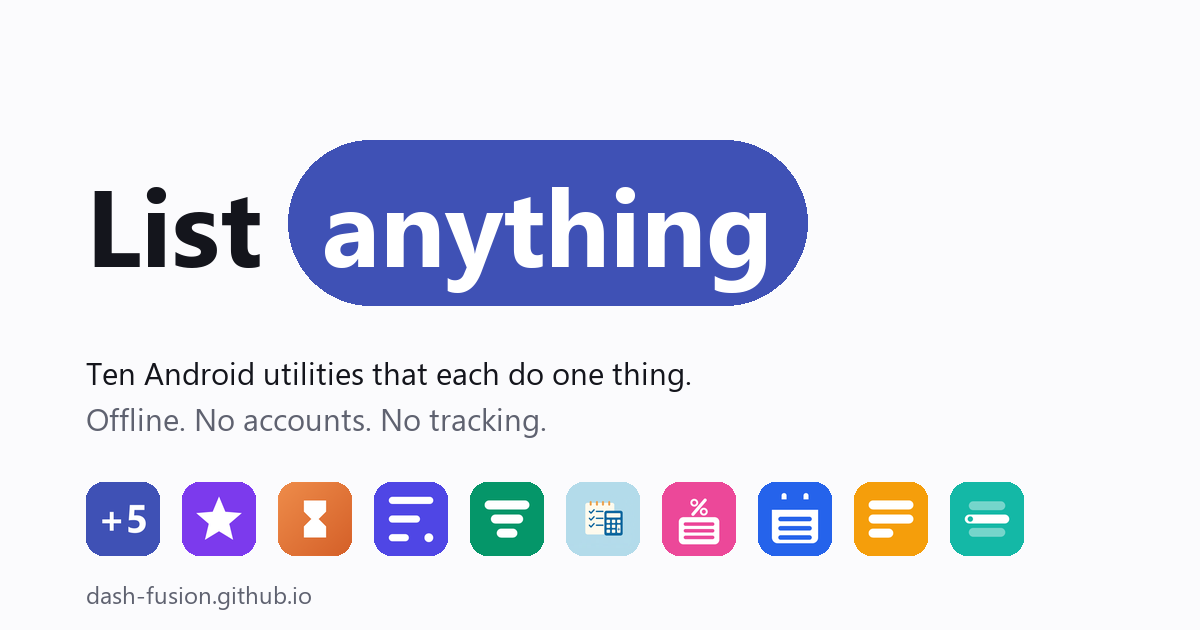
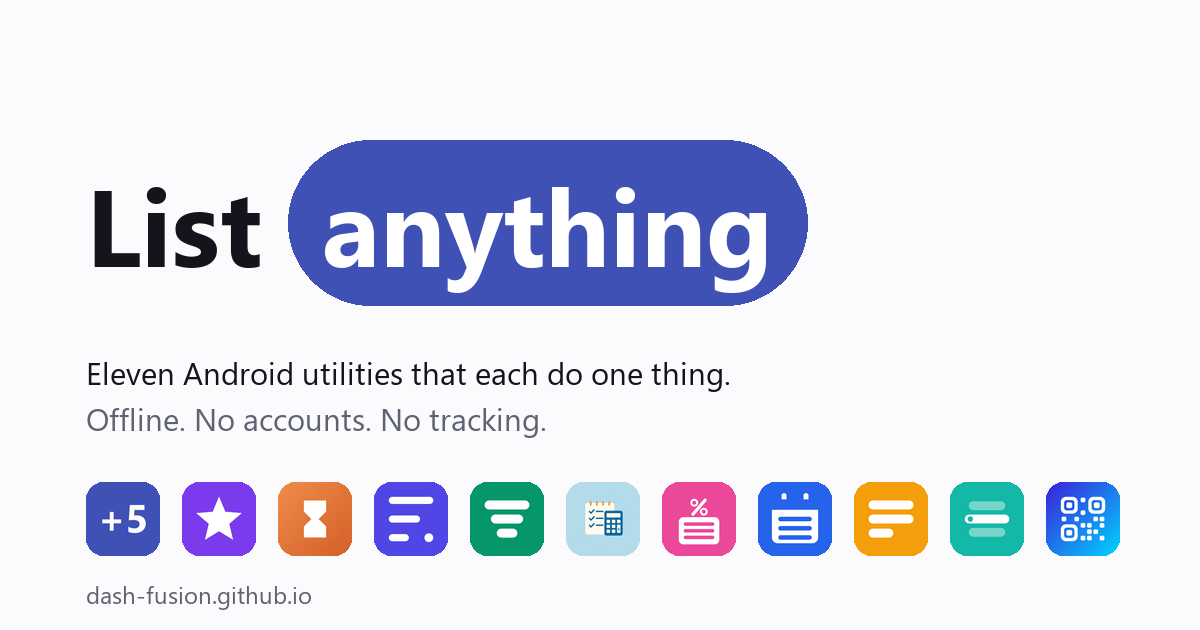
Add List QR to the landing page
New Create-and-share group with the List QR row (Play + privacy links),
eleventh icon, updated counts in copy and JSON-LD, and a regenerated
og.png.

Changed region(s): [[0.0617, 0.573, 0.6167, 0.6333], [0.8633, 0.754, 0.9558, 0.9048]]

diff --git a/index.html b/index.html
@@ -5,7 +5,7 @@
 <meta name="viewport" content="width=device-width, initial-scale=1">
 
 <title>Dash Fusion — offline-first Android utility apps</title>
-<meta name="description" content="Ten small Android utilities that each do one thing well — counters, timers, budgets, notes and more — plus Potion Sort, an offline color-sort puzzle with 999 levels. Everything works fully offline, with no account required.">
+<meta name="description" content="Eleven small Android utilities that each do one thing well — counters, timers, budgets, notes, QR codes and more — plus Potion Sort, an offline color-sort puzzle with 999 levels. Everything works fully offline, with no account required.">
 <link rel="canonical" href="https://dash-fusion.github.io/">
 <meta name="author" content="Dash Fusion">
 <meta name="robots" content="index, follow, max-image-preview:large">
@@ -16,14 +16,14 @@
 <meta property="og:site_name" content="Dash Fusion">
 <meta property="og:url" content="https://dash-fusion.github.io/">
 <meta property="og:title" content="Dash Fusion — offline-first Android utility apps">
-<meta property="og:description" content="Ten small Android utilities that each do one thing well, plus Potion Sort — an offline color-sort puzzle. No account required.">
+<meta property="og:description" content="Eleven small Android utilities that each do one thing well, plus Potion Sort — an offline color-sort puzzle. No account required.">
 <meta property="og:image" content="https://dash-fusion.github.io/og.png">
 <meta property="og:image:width" content="1200">
 <meta property="og:image:height" content="630">
-<meta property="og:image:alt" content="Dash Fusion — List anything. The ten app icons in a row.">
+<meta property="og:image:alt" content="Dash Fusion — List anything. The eleven app icons in a row.">
 <meta name="twitter:card" content="summary_large_image">
 <meta name="twitter:title" content="Dash Fusion — offline-first Android utility apps">
-<meta name="twitter:description" content="Ten small Android utilities that each do one thing well, plus Potion Sort — an offline color-sort puzzle. No account required.">
+<meta name="twitter:description" content="Eleven small Android utilities that each do one thing well, plus Potion Sort — an offline color-sort puzzle. No account required.">
 <meta name="twitter:image" content="https://dash-fusion.github.io/og.png">
 
 <link rel="icon" href="/favicon.svg" type="image/svg+xml">
@@ -320,7 +320,7 @@ a{color:inherit}
 <header class="masthead shell">
   <p class="eyebrow">Dash Fusion</p>
   <h1 class="wordmark">List <span class="slot" id="slot"><span class="slot-text" id="slotText">anything</span></span></h1>
-  <p class="lede">Ten Android utilities that each do <strong>one thing</strong> — and a potion-sorting puzzle for your breaks. Everything works offline, keeps your data on your phone, and never asks who you are.</p>
+  <p class="lede">Eleven Android utilities that each do <strong>one thing</strong> — and a potion-sorting puzzle for your breaks. Everything works offline, keeps your data on your phone, and never asks who you are.</p>
   <span class="slot-measure" id="slotMeasure" aria-hidden="true"></span>
 </header>
 
@@ -481,6 +481,25 @@ a{color:inherit}
   </section>
 
   <section class="group">
+    <h2 class="group-label">Create and share</h2>
+    <ul class="rows">
+      <li class="row" style="--hue:#3B1FD9;--deep:#3B1FD9">
+        <div class="row-in">
+          <img class="row-icon" src="icons/list-qr.png" width="46" height="46" alt="" decoding="async">
+          <div>
+            <h3 class="row-name">List QR</h3>
+            <p class="row-desc">Generate QR codes and barcodes for WiFi, links, contacts and payments — styled, offline, saved to a list.</p>
+          </div>
+          <div class="row-links">
+            <a class="play-link" href="https://play.google.com/store/apps/details?id=com.dashfusion.qrgenerator" aria-label="List QR on Google Play" title="Get it on Google Play"><svg class="play-glyph" aria-hidden="true" focusable="false"><use href="#gplay"></use></svg></a>
+            <a href="https://dash-fusion.github.io/privacy/list-qr" aria-label="List QR privacy policy">Privacy</a>
+          </div>
+        </div>
+      </li>
+    </ul>
+  </section>
+
+  <section class="group">
     <h2 class="group-label">Play</h2>
     <ul class="rows">
       <li class="row" style="--hue:#A855F7;--deep:#7E22CE">
@@ -546,7 +565,8 @@ a{color:inherit}
     {t:'Percent',    c:'#BE185D'},
     {t:'Date',       c:'#2563EB'},
     {t:'Notes',      c:'#A16207'},
-    {t:'Picker',     c:'#0F766E'}
+    {t:'Picker',     c:'#0F766E'},
+    {t:'QR',         c:'#3B1FD9'}
   ];
   var i = 0;
 
@@ -613,7 +633,7 @@ a{color:inherit}
     {
       "@type":"ItemList",
       "name":"Dash Fusion Android apps",
-      "numberOfItems":11,
+      "numberOfItems":12,
       "itemListElement":[
         {"@type":"ListItem","position":1,"item":{"@type":"MobileApplication","name":"List Counter","applicationCategory":"UtilitiesApplication","operatingSystem":"Android","url":"https://play.google.com/store/apps/details?id=com.dashfusion.listcounter","image":"https://dash-fusion.github.io/icons/list-counter.png","description":"Tally reps, stock, laps or attendees with as many counters as you need.","author":{"@id":"https://dash-fusion.github.io/#org"},"offers":{"@type":"Offer","price":"0","priceCurrency":"USD"}}},
         {"@type":"ListItem","position":2,"item":{"@type":"MobileApplication","name":"List Score","applicationCategory":"UtilitiesApplication","operatingSystem":"Android","url":"https://play.google.com/store/apps/details?id=com.dashfusion.listscore","image":"https://dash-fusion.github.io/icons/list-score.png","description":"Keep score for any game — cards, darts, board games, the classroom.","author":{"@id":"https://dash-fusion.github.io/#org"},"offers":{"@type":"Offer","price":"0","priceCurrency":"USD"}}},
@@ -625,7 +645,8 @@ a{color:inherit}
         {"@type":"ListItem","position":8,"item":{"@type":"MobileApplication","name":"List Date","applicationCategory":"UtilitiesApplication","operatingSystem":"Android","url":"https://play.google.com/store/apps/details?id=com.dashfusion.listdate","image":"https://dash-fusion.github.io/icons/list-date.png","description":"Days between dates, ages, working days and deadlines that keep themselves current.","author":{"@id":"https://dash-fusion.github.io/#org"},"offers":{"@type":"Offer","price":"0","priceCurrency":"USD"}}},
         {"@type":"ListItem","position":9,"item":{"@type":"MobileApplication","name":"List Notes","applicationCategory":"ProductivityApplication","operatingSystem":"Android","url":"https://play.google.com/store/apps/details?id=com.dashfusion.listnotes","image":"https://dash-fusion.github.io/icons/list-notes.png","description":"Notes with checklists, real tables, attachments and one-tap PDF export.","author":{"@id":"https://dash-fusion.github.io/#org"},"offers":{"@type":"Offer","price":"0","priceCurrency":"USD"}}},
         {"@type":"ListItem","position":10,"item":{"@type":"MobileApplication","name":"List Picker","applicationCategory":"UtilitiesApplication","operatingSystem":"Android","url":"https://play.google.com/store/apps/details?id=com.dashfusion.listpicker","image":"https://dash-fusion.github.io/icons/list-picker.png","description":"Spin a wheel, draw a name, split teams or flip a coin.","author":{"@id":"https://dash-fusion.github.io/#org"},"offers":{"@type":"Offer","price":"0","priceCurrency":"USD"}}},
-        {"@type":"ListItem","position":11,"item":{"@type":"MobileApplication","name":"Potion Sort","applicationCategory":"GameApplication","operatingSystem":"Android","url":"https://play.google.com/store/apps/details?id=com.dashfusion.potion_sort","image":"https://dash-fusion.github.io/icons/potion-sort.png","description":"Offline color-sort puzzle with 999 solver-verified levels and a daily challenge.","author":{"@id":"https://dash-fusion.github.io/#org"},"offers":{"@type":"Offer","price":"0","priceCurrency":"USD"}}}
+        {"@type":"ListItem","position":11,"item":{"@type":"MobileApplication","name":"List QR","applicationCategory":"UtilitiesApplication","operatingSystem":"Android","url":"https://play.google.com/store/apps/details?id=com.dashfusion.qrgenerator","image":"https://dash-fusion.github.io/icons/list-qr.png","description":"Offline QR code and barcode generator — styled codes that still scan, saved to a list on your device.","author":{"@id":"https://dash-fusion.github.io/#org"},"offers":{"@type":"Offer","price":"0","priceCurrency":"USD"}}},
+        {"@type":"ListItem","position":12,"item":{"@type":"MobileApplication","name":"Potion Sort","applicationCategory":"GameApplication","operatingSystem":"Android","url":"https://play.google.com/store/apps/details?id=com.dashfusion.potion_sort","image":"https://dash-fusion.github.io/icons/potion-sort.png","description":"Offline color-sort puzzle with 999 solver-verified levels and a daily challenge.","author":{"@id":"https://dash-fusion.github.io/#org"},"offers":{"@type":"Offer","price":"0","priceCurrency":"USD"}}}
       ]
     }
   ]

diff --git a/scripts/gen_social.py b/scripts/gen_social.py
@@ -24,7 +24,7 @@ REGULAR = "C:/Windows/Fonts/segoeui.ttf"
 # Shipping order, matching the page.
 APPS = [
     "counter", "score", "timer", "budget", "debt",
-    "calculator", "percent", "date", "notes", "picker",
+    "calculator", "percent", "date", "notes", "picker", "qr",
 ]
 
 
@@ -62,7 +62,7 @@ def build_og(path):
 
     d.text(
         (left, py1 + 46),
-        "Ten Android utilities that each do one thing.",
+        "Eleven Android utilities that each do one thing.",
         font=sub,
         fill=INK,
     )
